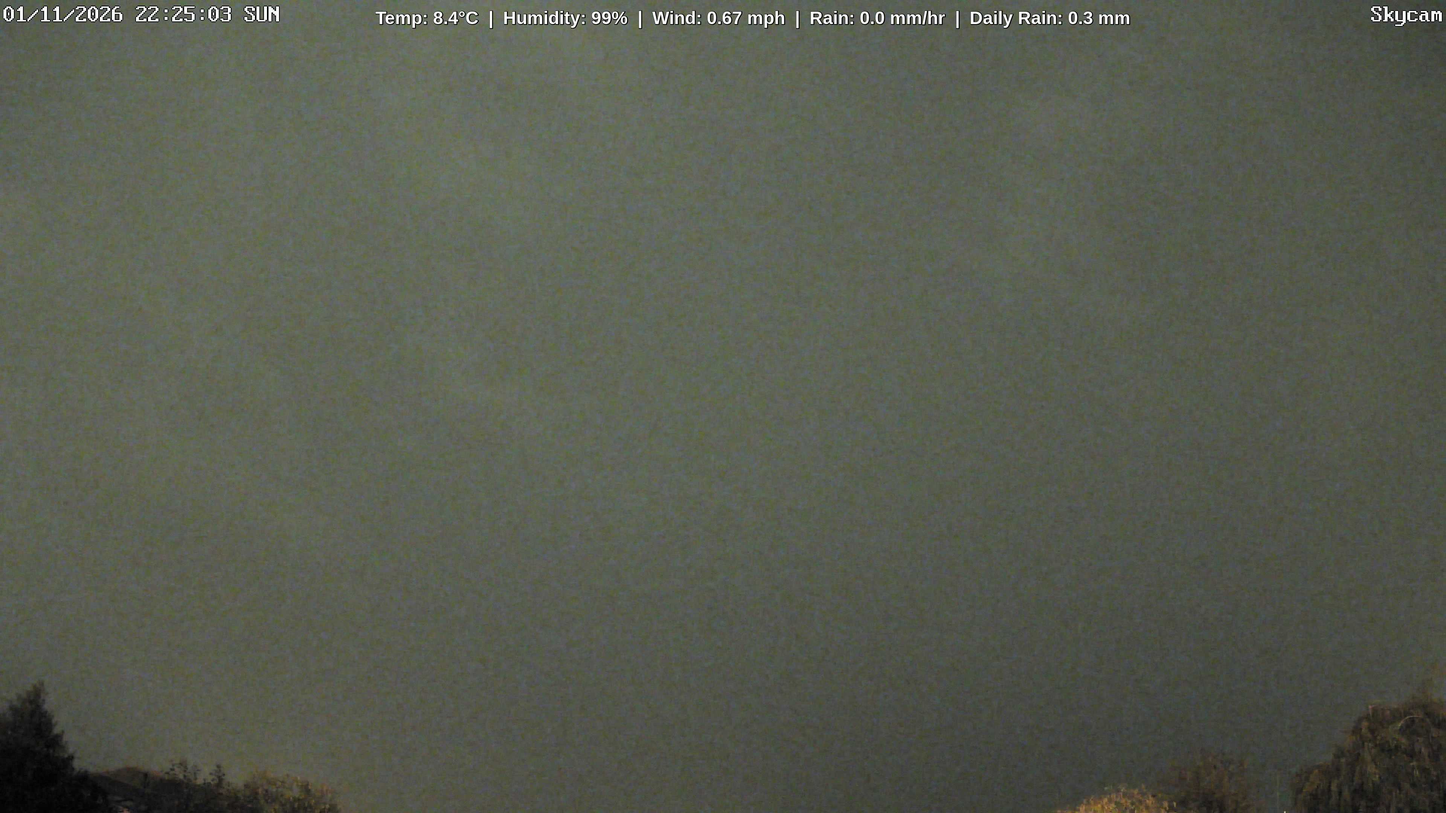
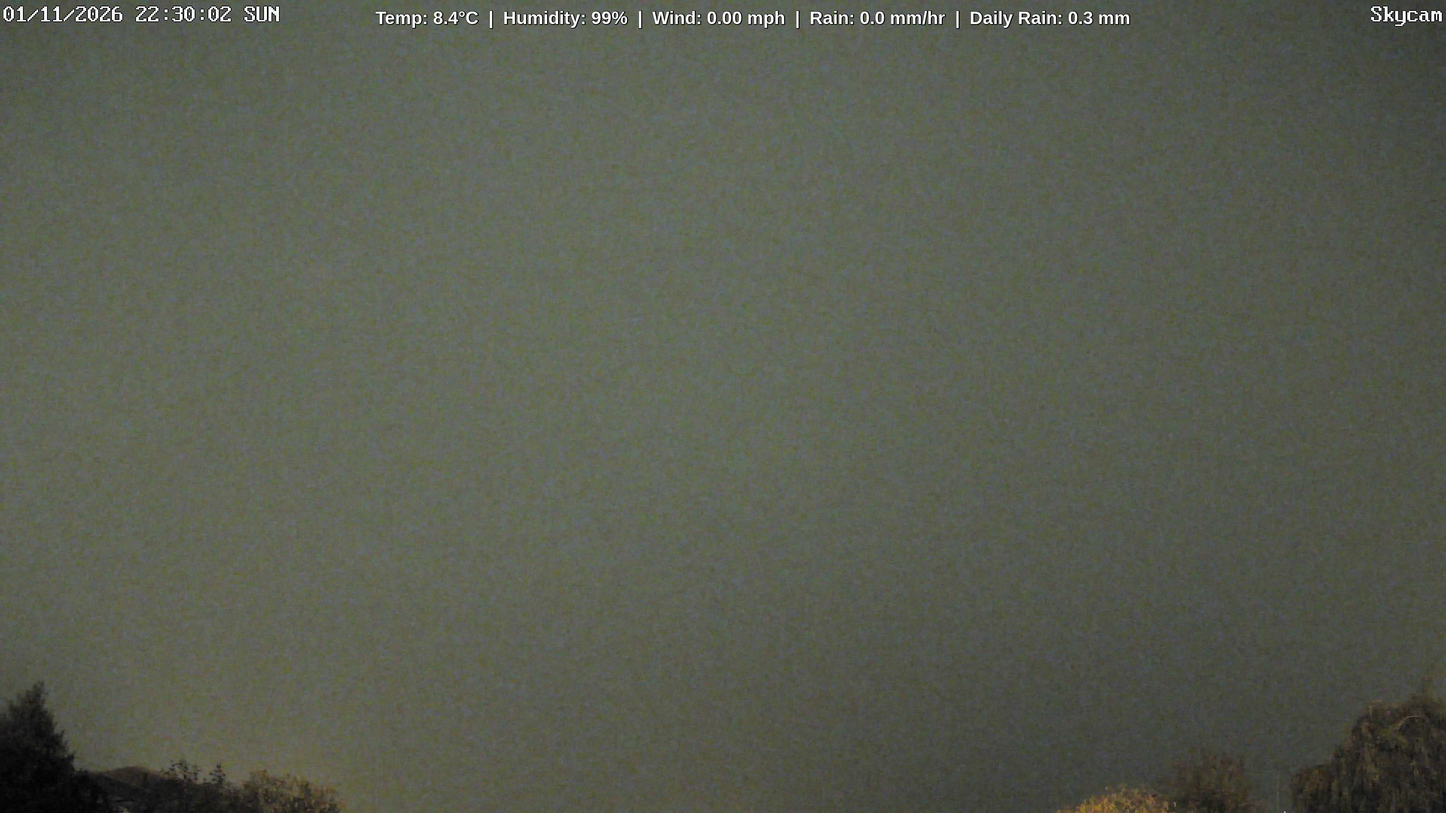
Update weather cam image with synchronized dual-layer weather metrics

Changed region(s): [[0.5, 0.0, 0.5312, 0.031], [0.125, 0.0, 0.1562, 0.031]]

diff --git a/index.html b/index.html
@@ -32,7 +32,7 @@
 </head>
 <body>
     <img id="weathercam" alt="Live Weather Snapshot">
-    <div class="banner">Temp: 8.4°C  |  Humidity: 99%  |  Wind: 0.67 mph  |  Rain: 0.0 mm/hr  |  Daily Rain: 0.3 mm</div>
+    <div class="banner">Temp: 8.4°C  |  Humidity: 99%  |  Wind: 0.00 mph  |  Rain: 0.0 mm/hr  |  Daily Rain: 0.3 mm</div>
 
     <script>
         // Shatter mobile cache engines by appending a live unique runtime timestamp 
